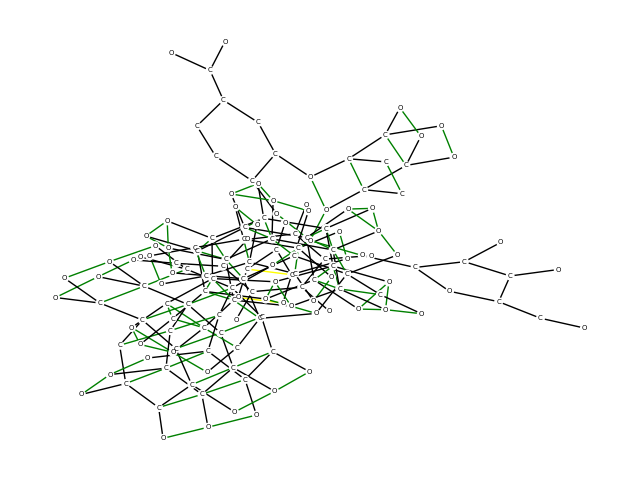
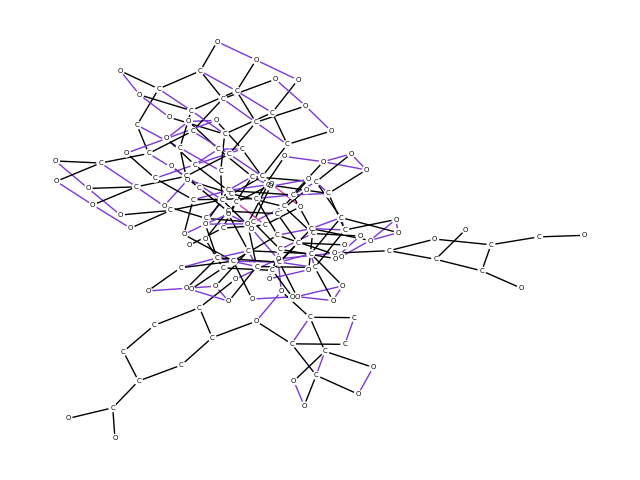
change atn graph color

diff --git a/src/wp3.py b/src/wp3.py
@@ -122,11 +122,11 @@ def draw_graph(G: nx.Graph, output = ""):
         edges[i] = edge
         trans_type = edge_trans[edge] if edge in edge_trans else None
         if trans_type == "TransitionType.REACTION":
-            color_map_edges[i] = "Green"
+            color_map_edges[i] = LILA[3]
         elif trans_type == "TransitionType.NO_TRANSITION":
             color_map_edges[i] = "Black"
         else:
-            color_map_edges[i] = "Yellow"
+            color_map_edges[i] = LILA[1]
 
         trans_types.append(trans_type)
 
@@ -257,9 +257,9 @@ def generate_atn_graph() -> Tuple[dict[SpeciesMediumCombination: int], dict[Spec
         reached_AS[species_medium_combination] = (AS, AS_noCO2)
         reached_compounds[species_medium_combination] = (compounds, compounds_noCO2)
 
-        #G_bfs_without_CO2_withMol = rebuild_molecule_edges(G, G_bfs_without_CO2)
+        G_bfs_without_CO2_withMol = rebuild_molecule_edges(G, G_bfs_without_CO2)
 
-        #draw_graph(G_bfs_without_CO2_withMol, f"output/plots/atn_graphs/{species_medium_combination}.png")
+        draw_graph(G_bfs_without_CO2_withMol, f"output/plots/atn_graphs/{species_medium_combination}.png")
 
     return no_connected_comp, connected_comp_sizes, reached_AS, reached_compounds
 
